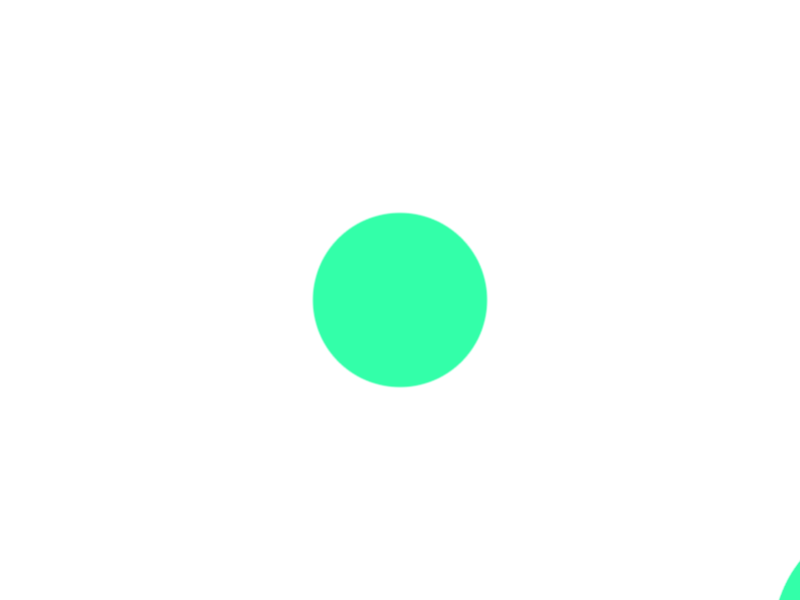
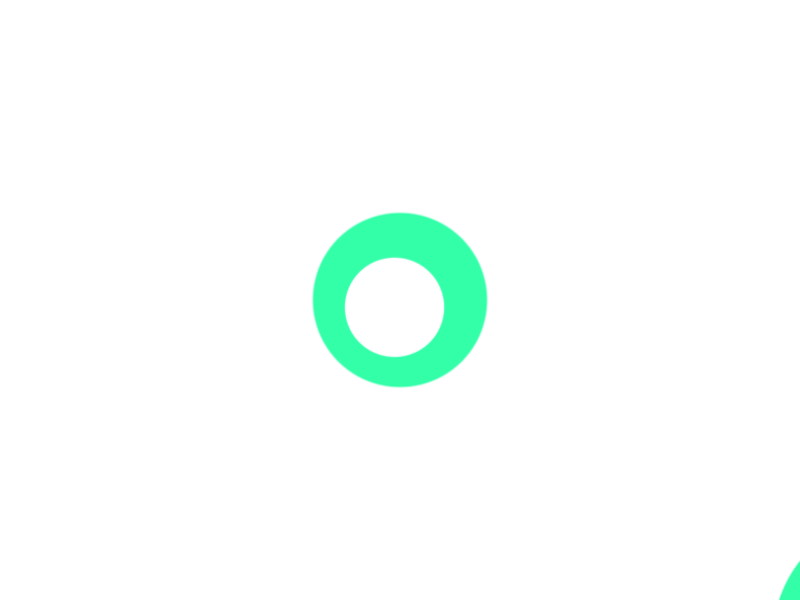
Started 3d stuff

Changed region(s): [[0.4062, 0.42, 0.5625, 0.6]]

diff --git a/brain/apps/BrainTest/src/BrainGrabber.cpp b/brain/apps/BrainTest/src/BrainGrabber.cpp
@@ -18,15 +18,21 @@ BrainGrabber::BrainGrabber() :
     mColorTolerance(0.01),
     mColToMatch(1,1,1),
     mCurSliceNum(0),
-    mCurrentViewMode( BRAIN_VIEW_MODE::MODE_2D )
+    mCurrentViewMode( BRAIN_VIEW_MODE::MODE_2D ),
+    mCameraZ(500)
 {
     mGui = pretzel::PretzelGui::create("SETTINGS");
     mGui->addButton("OPEN FILES", [&](void*){ openFileDialog(); }, this );
     mGui->addColorPicker("Brain Color", &mColToMatch);
     mGui->addSlider("Tolerance", &mColorTolerance, 0.0, 0.5);
+    
     mGui->addLabel("VIEW MODE");
     mGui->addButton("2D MODE", [&](void*){ mCurrentViewMode = MODE_2D; }, this );
     mGui->addButton("3D MODE", [&](void*){ mCurrentViewMode = MODE_3D; }, this );
+    
+    mGui->addLabel("3D STUFF");
+    mGui->addSlider("Camera Z", &mCameraZ, 0, 700);
+    
     mGui->addLabel("SAVE / LOAD SETTINGS");
     mGui->addSaveLoad();
     
@@ -45,6 +51,7 @@ BrainGrabber::BrainGrabber() :
 
 void BrainGrabber::setup()
 {
+    mCamera.lookAt( vec3(0,0,mCameraZ), vec3(0), vec3(0,1,0) );
 }
 
 void BrainGrabber::openFileDialog()
@@ -89,6 +96,10 @@ void BrainGrabber::openFileDialog()
             ++i;
 //            ++it;
 //            ++it;
+            
+//            if( mSliceDataList.size() > 100){
+//                break;
+//            }
         }
         
     }else{
@@ -113,6 +124,9 @@ void BrainGrabber::update()
         findContours();
         mSliceDataList[mCurSliceNum].bNeedsRecalc = false;
     }
+    
+    // 3D ----------
+    mCamera.lookAt( vec3(0,0,mCameraZ), vec3(0), vec3(0,1,0) );
 }
 
 void BrainGrabber::findContours()
@@ -141,7 +155,8 @@ void BrainGrabber::findContours()
 
     mSliceDataList[mCurSliceNum].mContourList.clear();
     
-    cv::findContours(input, mContours, CV_RETR_EXTERNAL, CV_CHAIN_APPROX_SIMPLE);
+    cv::findContours(input, mContours, CV_RETR_LIST, CV_CHAIN_APPROX_SIMPLE);
+//    cv::findContours(input, mContours, CV_RETR_EXTERNAL, CV_CHAIN_APPROX_SIMPLE);
     for (ContourVector::const_iterator iter = mContours.begin(); iter != mContours.end(); ++iter)
     {
         gl::VertBatchRef tVertBatch = gl::VertBatch::create(GL_LINE_LOOP);
@@ -149,7 +164,7 @@ void BrainGrabber::findContours()
             vec2 p( fromOcv(*pt) );
             
             tVertBatch->color(1,0,0);
-            tVertBatch->vertex(p);
+            tVertBatch->vertex(p - ((vec2)curSurf.getSize() * vec2(0.5)) );
         }
         tVertBatch->end();
         
@@ -197,6 +212,7 @@ void BrainGrabber::draw2D()
         
         gl::pushMatrices();{
             gl::translate( vec2(250, 0) );
+            gl::translate( (vec2)sd.mSurface.getSize() * (vec2)0.5 );
             
             if( sd.mContourList.size() ){
                 gl::ScopedColor scCol( 1,0,1,1 );
@@ -227,5 +243,18 @@ void BrainGrabber::saveToFile(const string text, const string location) {
 
 void BrainGrabber::draw3D()
 {
+    gl::pushMatrices();{
     
+        gl::setMatrices( mCamera );
+        
+        for( int i=0; i<mSliceDataList.size(); i++){
+            for( int k=0; k<mSliceDataList[i].mContourList.size(); k++){
+                mSliceDataList[i].mContourList[k]->draw();
+            }
+        }
+    
+    }gl::popMatrices();
 }
+
+
+

diff --git a/brain/apps/BrainTest/src/BrainGrabber.h b/brain/apps/BrainTest/src/BrainGrabber.h
@@ -12,6 +12,7 @@
 #include "cinder/gl/gl.h"
 #include "cinder/Filesystem.h"
 #include "cinder/ip/Resize.h"
+#include "cinder/Camera.h"
 
 #include "CinderOpenCV.h"
 
@@ -72,6 +73,10 @@ private:
     
     // VIEW
     BRAIN_VIEW_MODE mCurrentViewMode;
+    
+    // 3D STUFF
+    ci::CameraPersp mCamera;
+    float           mCameraZ;
     
     // DEBUG
     ci::gl::TextureRef mDebugTex;
